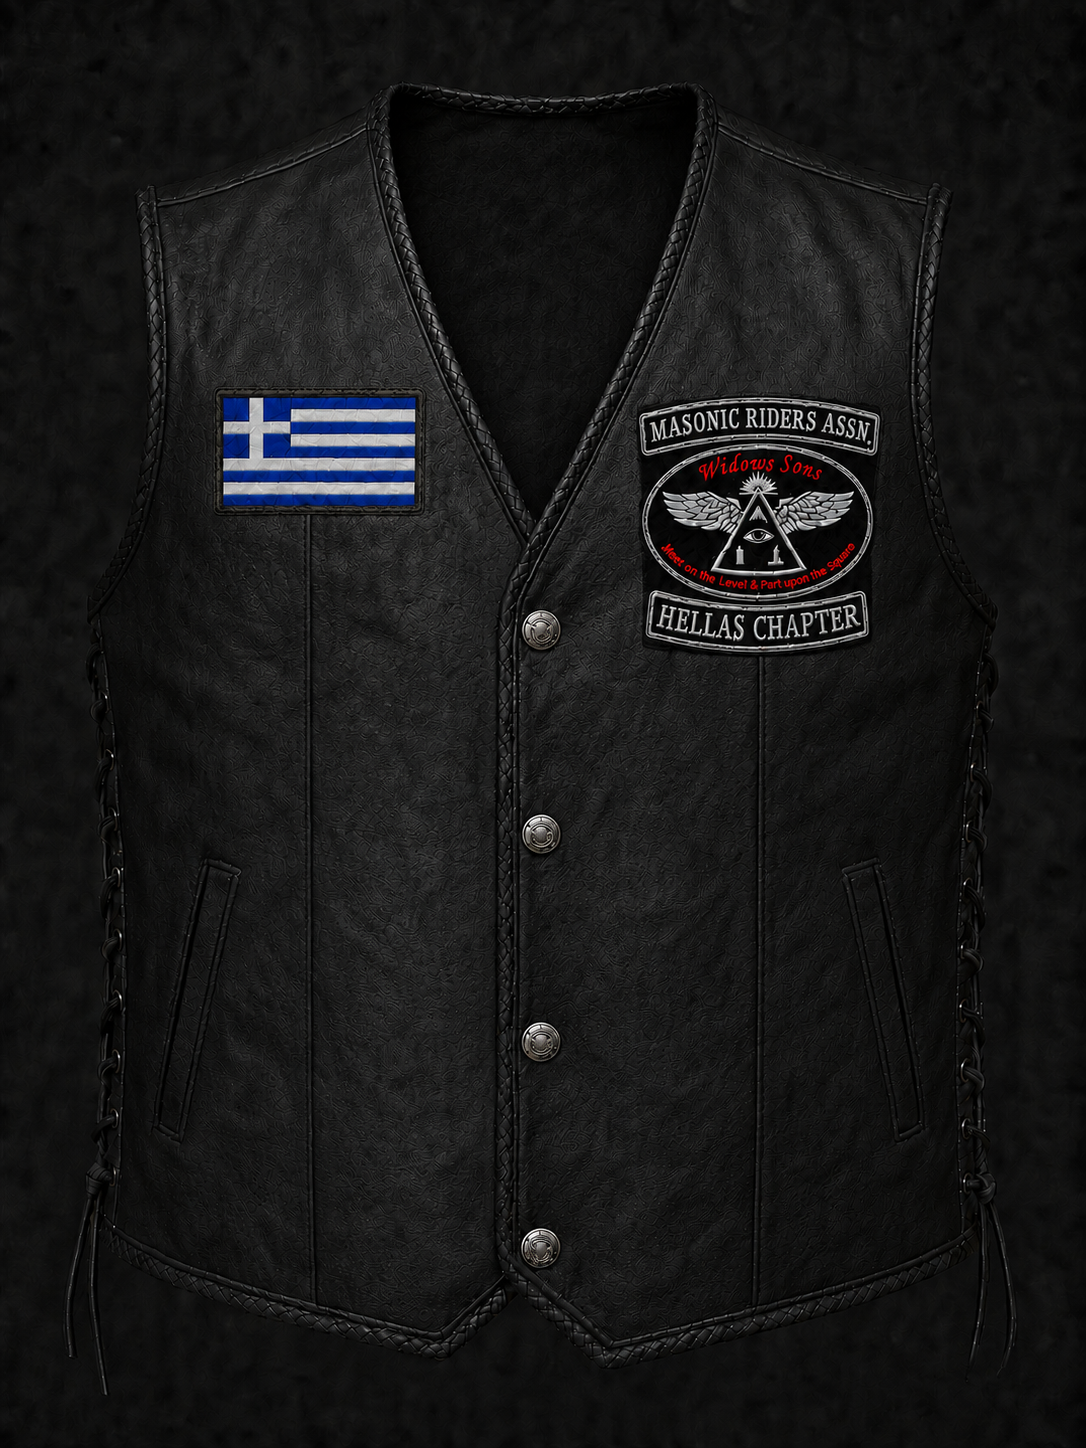
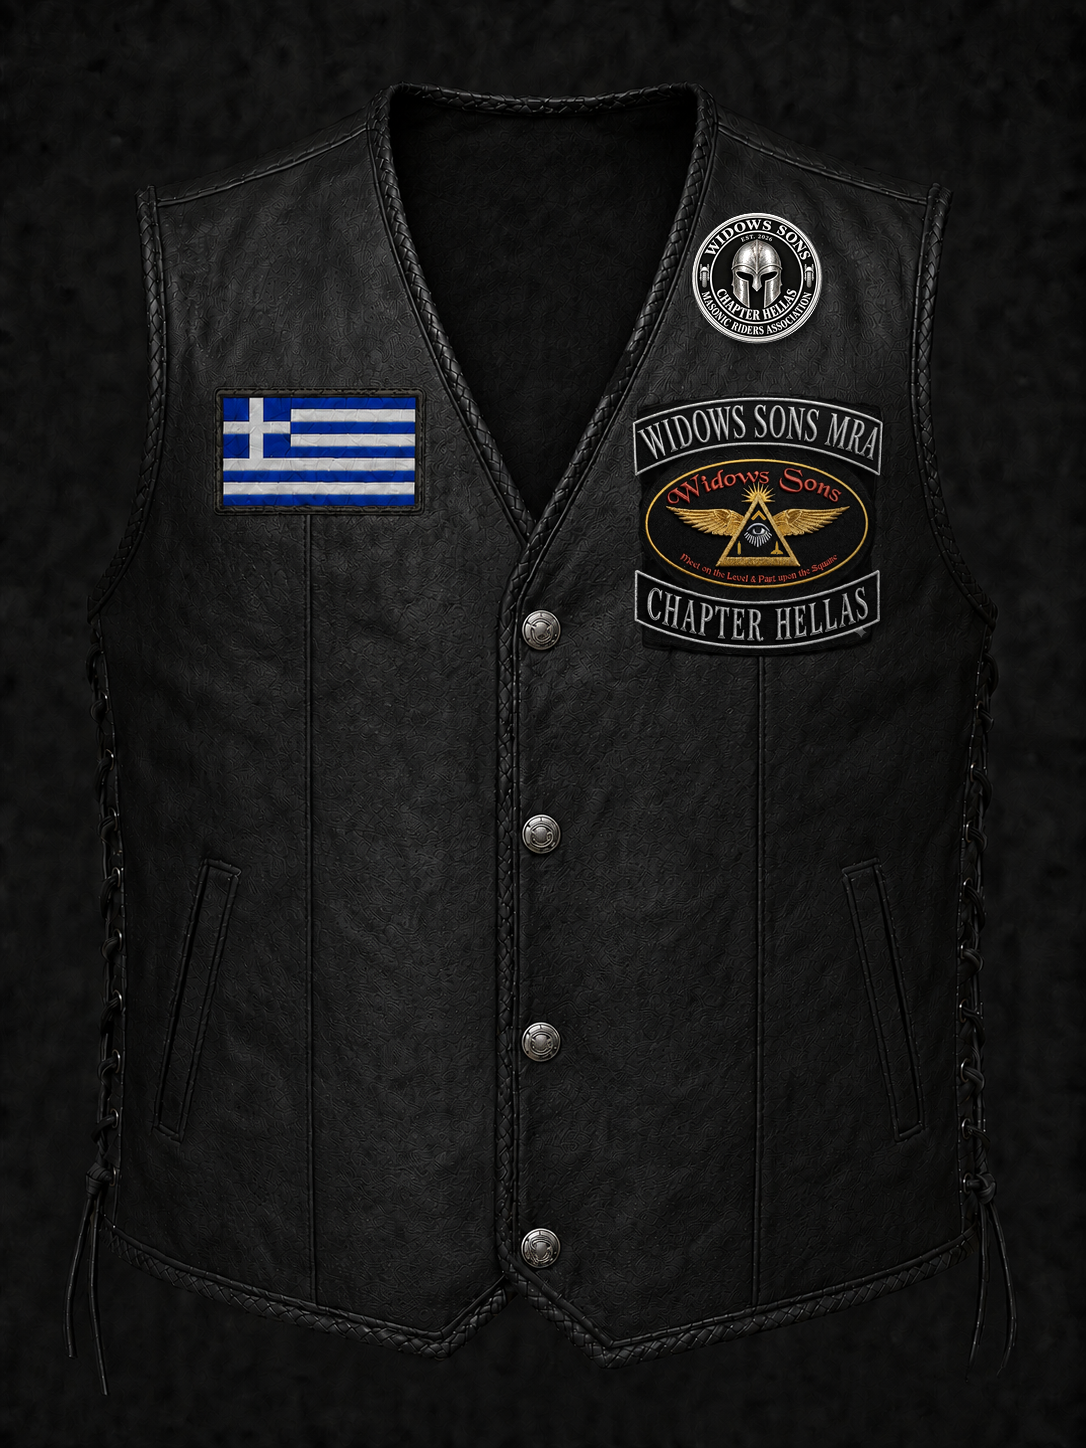
Replace front emblem artwork and add seal patch above it
- Swap the front emblem (top rocker / oval / bottom rocker) for the new
  Widows Sons MRA design, keeping the original 10x10cm footprint and
  position on both vest-silver.png and vest-standard.png.
- Add a new circular seal patch (~5.2cm, sized to clear the collar
  edge) centered 2cm above the emblem.
- Old emblem artwork is erased and replaced with matched leather
  texture so no ghosting shows through the gaps in the new patch
  silhouette; original braid trim is preserved in front where it
  crosses the new patches.
- Revert the Founder patch position back to its original spot on the
  right chest (left:59.8%, top:44.8%).

Claude-Session: https://claude.ai/code/session_017sXuPgmTSn4iwGBeK1jvhJ

Changed region(s): [[0.5773, 0.1243, 0.8204, 0.4662], [0.547, 0.2486, 0.5773, 0.2797]]

diff --git a/index.html b/index.html
@@ -34,7 +34,7 @@
     .vest{position:relative;width:min(690px,76vh,calc(100vw - 430px));aspect-ratio:3/4;filter:drop-shadow(0 28px 32px #000a)}
     .vest>img{position:absolute;inset:0;width:100%;height:100%;object-fit:contain}
     .patch{position:absolute;z-index:3;height:5.4%;width:20.8%;display:flex;align-items:center;justify-content:center;padding:0 4%;overflow:hidden;white-space:nowrap;border:2px solid #e5e8ec;outline:1px solid #686e77;border-radius:4px;background:linear-gradient(#191b1f,#020304 55%,#101215);box-shadow:inset 0 0 0 2px #07080a,inset 0 0 0 3px #aeb4bc,0 3px 6px #000b;color:#eef0f3;text-shadow:0 1px #fff7,0 3px 3px #000;font:bold clamp(8px,1.25vw,17px) Georgia,serif}
-    .rank{left:20.2%;top:34.9%;font-size:clamp(7px,1.05vw,14px)}.road{left:20.2%;top:40.35%}.honorary{left:20.2%;top:45.8%;font-size:clamp(7px,1.02vw,14px)}.founder{left:20.2%;top:51.25%}
+    .rank{left:20.2%;top:34.9%;font-size:clamp(7px,1.05vw,14px)}.road{left:20.2%;top:40.35%}.honorary{left:20.2%;top:45.8%;font-size:clamp(7px,1.02vw,14px)}.founder{left:59.8%;top:44.8%}
     .size{position:absolute;z-index:4;top:8.4%;left:47%;padding:4px 8px;border:1px solid #555b64;background:#101216;color:#e9ebee;text-align:center;font-size:clamp(6px,.65vw,10px);line-height:1.15}.size strong{display:block;font-size:1.55em}
     .hidden{display:none}
     @media(max-width:900px){.app{grid-template-columns:1fr}aside{min-height:auto;border-right:0;border-bottom:1px solid var(--line);display:grid;grid-template-columns:1fr 1fr}.brand,.specs{grid-column:1/-1}main{padding:24px 10px}.stage{min-height:auto}.vest{width:min(680px,96vw)}}
